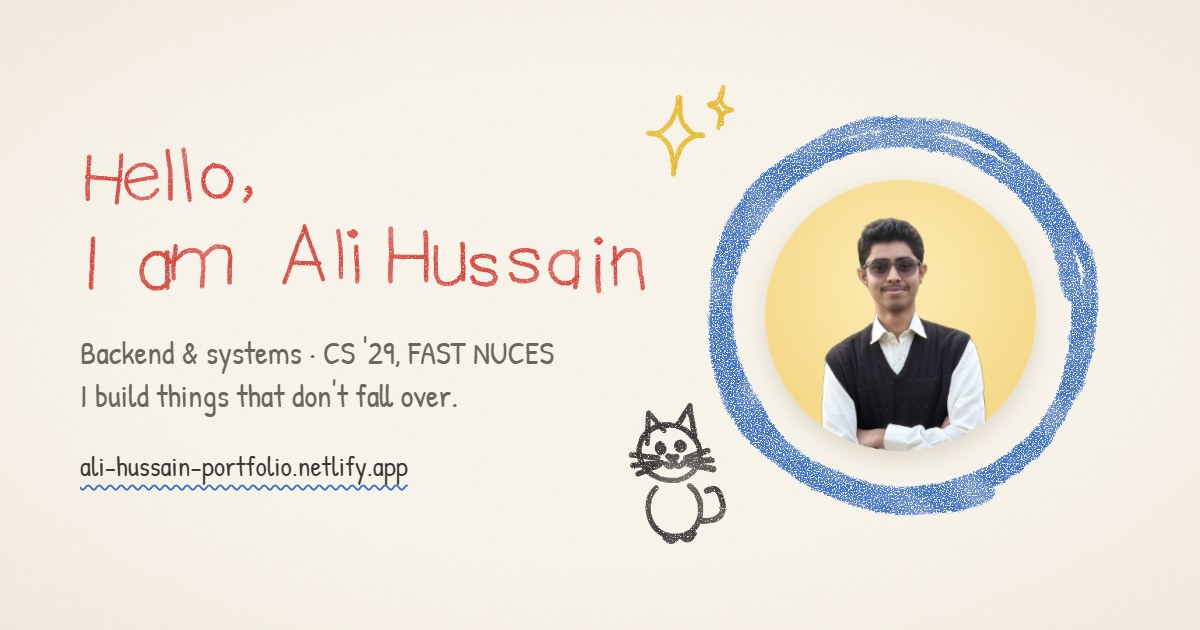
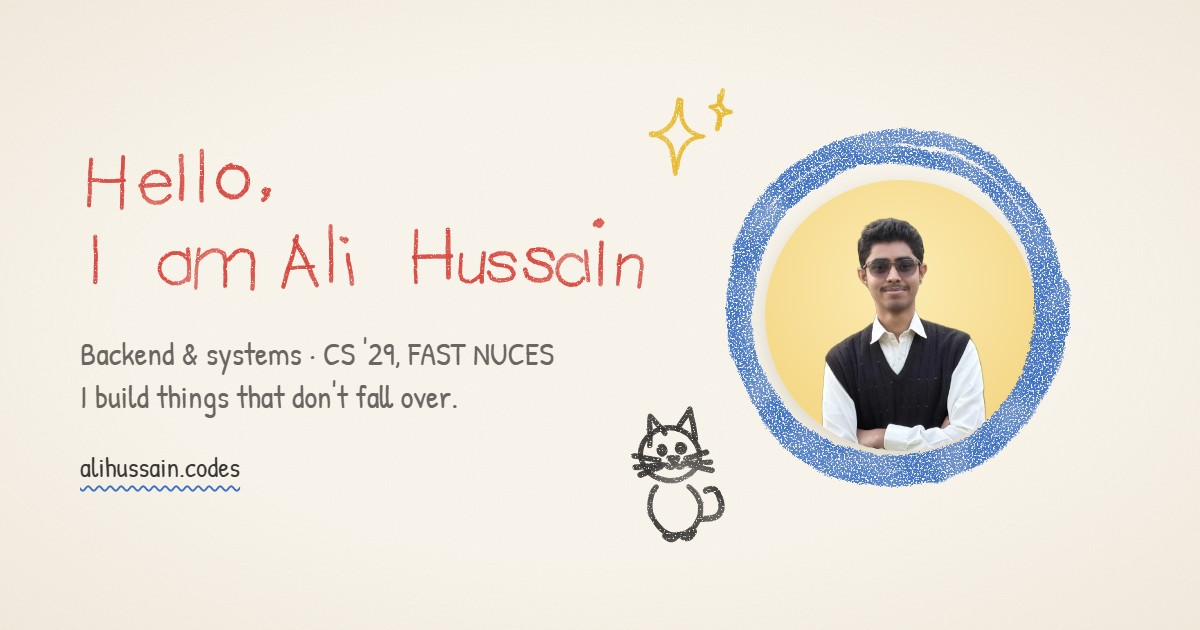
chore: the site's address is now alihussain.codes

diff --git a/index.html b/index.html
@@ -22,19 +22,19 @@
       })();
     </script>
     <!-- the live address: also in public/robots.txt and public/sitemap.xml -->
-    <link rel="canonical" href="https://ali-hussain-portfolio.netlify.app/" />
+    <link rel="canonical" href="https://alihussain.codes/" />
     <link rel="icon" type="image/svg+xml" href="/favicon.svg" />
 
     <!-- link previews (LinkedIn, WhatsApp, Slack, X): public/og.jpg is made with `?og` (see src/lab/OgCard.tsx) -->
     <meta property="og:type" content="website" />
     <meta property="og:site_name" content="Ali Hussain" />
-    <meta property="og:url" content="https://ali-hussain-portfolio.netlify.app/" />
+    <meta property="og:url" content="https://alihussain.codes/" />
     <meta property="og:title" content="Ali Hussain · Backend &amp; Systems" />
     <meta
       property="og:description"
       content="CS '29 at FAST NUCES, Karachi. I build things that don't fall over. Projects, roles and a cat named Billo, all drawn in crayon."
     />
-    <meta property="og:image" content="https://ali-hussain-portfolio.netlify.app/og.jpg" />
+    <meta property="og:image" content="https://alihussain.codes/og.jpg" />
     <meta property="og:image:width" content="1200" />
     <meta property="og:image:height" content="630" />
     <meta property="og:image:alt" content="“Hello, I am Ali Hussain” written in red crayon next to his photo" />
@@ -46,8 +46,8 @@
         "@context": "https://schema.org",
         "@type": "Person",
         "name": "Ali Hussain",
-        "url": "https://ali-hussain-portfolio.netlify.app/",
-        "image": "https://ali-hussain-portfolio.netlify.app/ali.webp",
+        "url": "https://alihussain.codes/",
+        "image": "https://alihussain.codes/ali.webp",
         "jobTitle": "Computer Science student",
         "description": "Backend and systems-focused Computer Science student at FAST NUCES Karachi.",
         "affiliation": {

diff --git a/draw.html b/draw.html
@@ -22,10 +22,10 @@
     <!-- link previews (LinkedIn, WhatsApp, Slack, X): public/og-draw.jpg is a screenshot of the sketchpad -->
     <meta property="og:type" content="website" />
     <meta property="og:site_name" content="Ali Hussain" />
-    <meta property="og:url" content="https://ali-hussain-portfolio.netlify.app/draw" />
+    <meta property="og:url" content="https://alihussain.codes/draw" />
     <meta property="og:title" content="Sketchpad · Ali Hussain" />
     <meta property="og:description" content="An endless sheet of paper and a box of crayons. Draw, type, and write a question about Ali: an AI answers in crayon right next to it." />
-    <meta property="og:image" content="https://ali-hussain-portfolio.netlify.app/og-draw.jpg" />
+    <meta property="og:image" content="https://alihussain.codes/og-draw.jpg" />
     <meta property="og:image:width" content="1200" />
     <meta property="og:image:height" content="630" />
     <meta property="og:image:alt" content="The sketchpad: “What does Ali do?” typed in blue, answered in purple crayon handwriting, with a crayon heart and sun" />

diff --git a/blog.html b/blog.html
@@ -22,10 +22,10 @@
     <!-- link previews (LinkedIn, WhatsApp, Slack, X) -->
     <meta property="og:type" content="website" />
     <meta property="og:site_name" content="Ali Hussain" />
-    <meta property="og:url" content="https://ali-hussain-portfolio.netlify.app/blog" />
+    <meta property="og:url" content="https://alihussain.codes/blog" />
     <meta property="og:title" content="Blog · Ali Hussain" />
     <meta property="og:description" content="Ali Hussain's blog: notes on backend, systems and the things he builds." />
-    <meta property="og:image" content="https://ali-hussain-portfolio.netlify.app/og.jpg" />
+    <meta property="og:image" content="https://alihussain.codes/og.jpg" />
     <meta property="og:image:width" content="1200" />
     <meta property="og:image:height" content="630" />
     <meta property="og:image:alt" content="“Hello, I am Ali Hussain” written in red crayon next to his photo" />

diff --git a/server/ask-log.ts b/server/ask-log.ts
@@ -3,7 +3,7 @@
  * can see what people want to know (and add it to content/ai/). No IPs or anything about the visitor
  * are kept. Locked with ASK_LOG_KEY: without it set, the log can't be read at all.
  *
- *   node scripts/ask-log.mjs https://ali-hussain-portfolio.netlify.app 7
+ *   node scripts/ask-log.mjs https://alihussain.codes 7
  */
 import { timingSafeEqual } from 'node:crypto';
 import type { AskStore } from './store.ts';

diff --git a/src/lab/OgCard.tsx b/src/lab/OgCard.tsx
@@ -23,7 +23,7 @@ export default function OgCard() {
           Backend &amp; systems · CS '29, FAST NUCES
           <br />I build things that don't fall over.
         </p>
-        <p className="og__url">ali-hussain-portfolio.netlify.app</p>
+        <p className="og__url">alihussain.codes</p>
       </div>
 
       <div className="og__portrait">

diff --git a/README.md b/README.md
@@ -4,7 +4,7 @@ A portfolio drawn in crayon. Every heading, doodle and outline on the page is dr
 scroll to it, the whole site is paper you can scribble on, and a sketchpad lets you ask an AI about me by
 writing questions on the sheet.
 
-**Live:** https://ali-hussain-portfolio.netlify.app · **Sketchpad:** [/draw](https://ali-hussain-portfolio.netlify.app/draw) · **Blog:** [/blog](https://ali-hussain-portfolio.netlify.app/blog)
+**Live:** https://alihussain.codes · **Sketchpad:** [/draw](https://alihussain.codes/draw) · **Blog:** [/blog](https://alihussain.codes/blog)
 
 Built with React 19, TypeScript and Vite. There's no UI library, no canvas library and no animation library:
 the crayon rendering is written from scratch in SVG.
